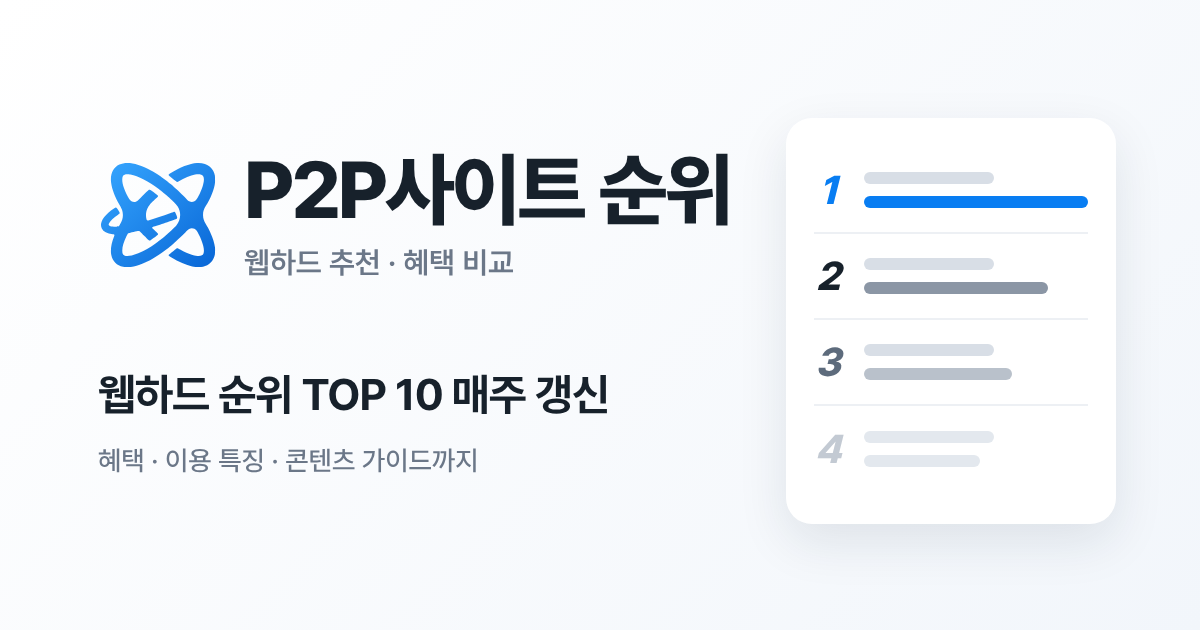
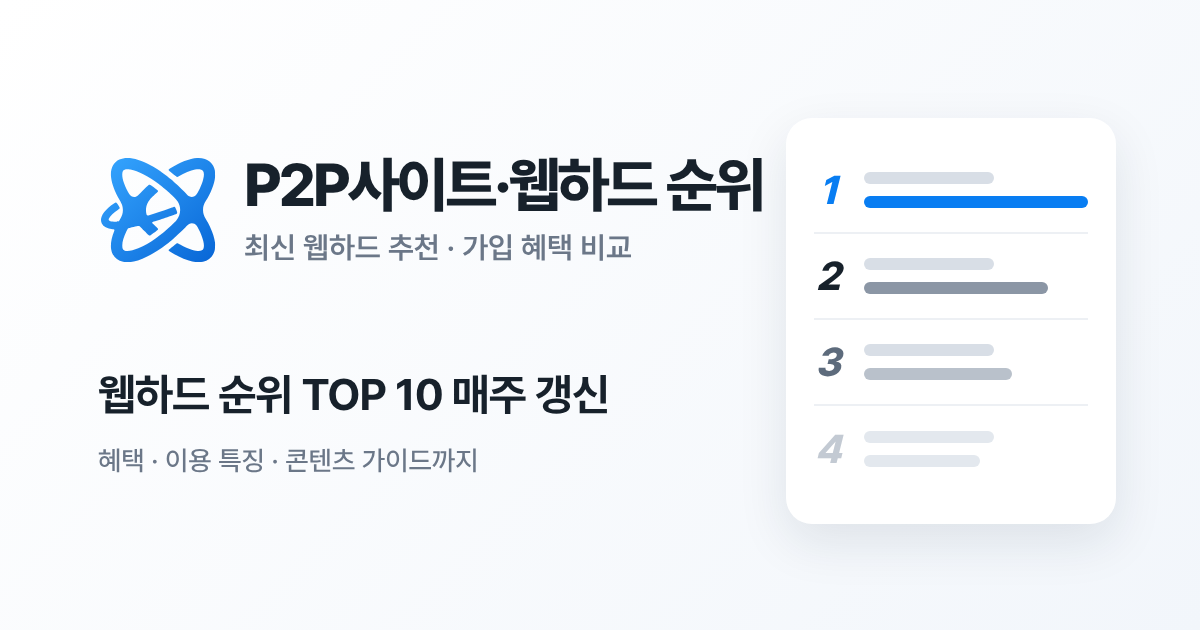
화면 이름에 웹하드 순위 검색어 추가
- 머리글·페이지 제목 끝·사이트 이름 정보·llms.txt·공유 이미지를 "P2P사이트·웹하드 순위 / 최신 웹하드 추천 · 가입 혜택 비교"로

Changed region(s): [[0.0617, 0.2413, 0.6475, 0.4524]]

diff --git a/criteria.html b/criteria.html
@@ -5,7 +5,7 @@
     <meta name="viewport" content="width=device-width,initial-scale=1" />
     <meta http-equiv="Content-Security-Policy" content="default-src 'self'; script-src 'self' 'unsafe-inline'; style-src 'self' 'unsafe-inline'; img-src 'self' data:; font-src 'self'; connect-src 'self'; object-src 'none'; base-uri 'self'; form-action 'none'" />
     <meta name="referrer" content="strict-origin-when-cross-origin" />
-    <title>순위 검증 가이드 | P2P사이트 순위</title>
+    <title>순위 검증 가이드 | P2P사이트·웹하드 순위</title>
     <link rel="icon" href="favicon.ico?v=2" sizes="32x32" />
     <link rel="icon" href="assets/brand-mark.svg?v=3" type="image/svg+xml" />
     <link rel="apple-touch-icon" href="assets/apple-touch-icon.png?v=2" />
@@ -14,18 +14,18 @@
       content="P2P사이트·웹하드 순위를 정하는 종합 지수 산정 기준(네이버 검색 관심도·구글 플레이 앱 이용 지표·이용자 반응)과 합법 웹하드 확인 방법을 안내합니다."
     />
     <meta property="og:type" content="website" />
-    <meta property="og:site_name" content="P2P사이트 순위" />
+    <meta property="og:site_name" content="P2P사이트·웹하드 순위" />
     <meta property="og:locale" content="ko_KR" />
-    <meta property="og:title" content="순위 검증 가이드 | P2P사이트 순위" />
+    <meta property="og:title" content="순위 검증 가이드 | P2P사이트·웹하드 순위" />
     <meta property="og:description" content="P2P사이트·웹하드 순위를 정하는 종합 지수 산정 기준(네이버 검색 관심도·구글 플레이 앱 이용 지표·이용자 반응)과 합법 웹하드 확인 방법을 안내합니다." />
     <meta property="og:url" content="https://site-url.invalid/criteria.html" />
-    <meta property="og:image" content="https://site-url.invalid/assets/og-image.png?v=3" />
+    <meta property="og:image" content="https://site-url.invalid/assets/og-image.png?v=4" />
     <meta property="og:image:width" content="1200" />
     <meta property="og:image:height" content="630" />
     <meta property="og:image:alt" content="P2P사이트·웹하드 순위 TOP 10" />
     <meta name="twitter:card" content="summary_large_image" />
     <link rel="canonical" href="https://site-url.invalid/criteria.html" />
-    <script type="application/ld+json">{"@context": "https://schema.org", "@type": "BreadcrumbList", "itemListElement": [{"@type": "ListItem", "position": 1, "name": "P2P사이트 순위", "item": "https://site-url.invalid/"}, {"@type": "ListItem", "position": 2, "name": "순위 검증 가이드", "item": "https://site-url.invalid/criteria.html"}]}</script>
+    <script type="application/ld+json">{"@context": "https://schema.org", "@type": "BreadcrumbList", "itemListElement": [{"@type": "ListItem", "position": 1, "name": "P2P사이트·웹하드 순위", "item": "https://site-url.invalid/"}, {"@type": "ListItem", "position": 2, "name": "순위 검증 가이드", "item": "https://site-url.invalid/criteria.html"}]}</script>
     <link rel="stylesheet" href="assets/css/main.css?v=30" />
     <link rel="stylesheet" href="assets/css/page.css?v=13" />
   </head>
@@ -35,7 +35,7 @@
       <nav class="wrap nav">
         <a class="brand-link" href="index.html"
           ><img class="brand-mark" src="assets/brand-mark.svg" alt="" width="40" height="40" /><span class="brand-word"
-            ><b>P2P사이트 순위</b><small>웹하드 추천 · 혜택 비교</small></span
+            ><b>P2P사이트·웹하드 순위</b><small>최신 웹하드 추천 · 가입 혜택 비교</small></span
           ></a
         >
         <div class="menu">
@@ -65,7 +65,7 @@
         <div class="drawer-head">
           <span class="brand-link"
             ><img class="brand-mark" src="assets/brand-mark.svg" alt="" width="40" height="40" /><span class="brand-word"
-              ><b>P2P사이트 순위</b><small>웹하드 추천 · 혜택 비교</small></span
+              ><b>P2P사이트·웹하드 순위</b><small>최신 웹하드 추천 · 가입 혜택 비교</small></span
             ></span
           ><button
             id="closeMenu"

diff --git a/index.html b/index.html
@@ -16,17 +16,17 @@
     <meta name="robots" content="index,follow,max-image-preview:large" />
     <link rel="canonical" href="https://site-url.invalid/" />
     <meta property="og:type" content="website" />
-    <meta property="og:site_name" content="P2P사이트 순위" />
+    <meta property="og:site_name" content="P2P사이트·웹하드 순위" />
     <meta property="og:locale" content="ko_KR" />
     <meta property="og:title" content="P2P사이트 순위 TOP {{count}} ({{updated_ym}}) | 최신 웹하드 추천·혜택 비교" />
     <meta property="og:description" content="{{updated_ym}} 기준 P2P사이트·웹하드 순위 TOP {{count}}. {{top3}} 등 주요 웹하드의 선정이유와 혜택, 이용 특징, 합법 웹하드 확인법을 한눈에 비교합니다." />
     <meta property="og:url" content="https://site-url.invalid/" />
-    <meta property="og:image" content="https://site-url.invalid/assets/og-image.png?v=3" />
+    <meta property="og:image" content="https://site-url.invalid/assets/og-image.png?v=4" />
     <meta property="og:image:width" content="1200" />
     <meta property="og:image:height" content="630" />
     <meta property="og:image:alt" content="P2P사이트·웹하드 순위 TOP 10" />
     <meta name="twitter:card" content="summary_large_image" />
-    <script type="application/ld+json">{"@context": "https://schema.org", "@type": "WebSite", "name": "P2P사이트 순위", "url": "https://site-url.invalid/", "inLanguage": "ko-KR"}</script>
+    <script type="application/ld+json">{"@context": "https://schema.org", "@type": "WebSite", "name": "P2P사이트·웹하드 순위", "url": "https://site-url.invalid/", "inLanguage": "ko-KR"}</script>
     <script type="application/ld+json">{"@context": "https://schema.org", "@type": "FAQPage", "mainEntity": [{"@type": "Question", "name": "웹하드 순위는 어떤 기준으로 정하나요?", "acceptedAnswer": {"@type": "Answer", "text": "네이버 검색 관심도, 구글 플레이 앱 이용 지표, 이용자 반응을 종합한 종합 지수 순서입니다. 지표는 매주 월요일 다시 수집해 반영합니다."}}, {"@type": "Question", "name": "합법 웹하드인지 어떻게 확인하나요?", "acceptedAnswer": {"@type": "Answer", "text": "국내 웹하드는 부가통신사업자로 등록해야 운영할 수 있습니다. 서비스 하단에서 사업자 정보와 등록 번호, 저작권 필터링 안내를 확인하세요."}}, {"@type": "Question", "name": "가입 무료 포인트는 바로 쓸 수 있나요?", "acceptedAnswer": {"@type": "Answer", "text": "대부분 사용 기한과 사용 범위가 정해져 있습니다. 가입 전에 이벤트의 유효기간과 제한 조건을 확인하세요."}}, {"@type": "Question", "name": "정액제 자동 결제는 어떻게 해지하나요?", "acceptedAnswer": {"@type": "Answer", "text": "보통 마이페이지의 결제 관리에서 자동 연장을 끌 수 있습니다. 해지 방법과 환불 조건은 결제 전에 이용약관에서 확인하세요."}}]}</script>
     <!-- ranking:jsonld -->
     <link rel="stylesheet" href="assets/css/main.css?v=30" />
@@ -37,7 +37,7 @@
       <nav class="wrap nav">
         <a class="brand-link" href="index.html"
           ><img class="brand-mark" src="assets/brand-mark.svg" alt="" width="40" height="40" /><span class="brand-word"
-            ><b>P2P사이트 순위</b><small>웹하드 추천 · 혜택 비교</small></span
+            ><b>P2P사이트·웹하드 순위</b><small>최신 웹하드 추천 · 가입 혜택 비교</small></span
           ></a
         >
         <div class="menu">
@@ -67,7 +67,7 @@
         <div class="drawer-head">
           <span class="brand-link"
             ><img class="brand-mark" src="assets/brand-mark.svg" alt="" width="40" height="40" /><span class="brand-word"
-              ><b>P2P사이트 순위</b><small>웹하드 추천 · 혜택 비교</small></span
+              ><b>P2P사이트·웹하드 순위</b><small>최신 웹하드 추천 · 가입 혜택 비교</small></span
             ></span
           ><button
             id="closeMenu"

diff --git a/content-guide.html b/content-guide.html
@@ -14,18 +14,18 @@
       content="극장 관객 수와 TV 시청률로 지난주 가장 많이 본 영화·드라마·예능 TOP 5를 매주 정리하는 콘텐츠 가이드입니다."
     />
     <meta property="og:type" content="website" />
-    <meta property="og:site_name" content="P2P사이트 순위" />
+    <meta property="og:site_name" content="P2P사이트·웹하드 순위" />
     <meta property="og:locale" content="ko_KR" />
     <meta property="og:title" content="이번 주 영화·드라마·예능 순위 TOP 5 | 콘텐츠 가이드" />
     <meta property="og:description" content="극장 관객 수와 TV 시청률로 지난주 가장 많이 본 영화·드라마·예능 TOP 5를 매주 정리하는 콘텐츠 가이드입니다." />
     <meta property="og:url" content="https://site-url.invalid/content-guide.html" />
-    <meta property="og:image" content="https://site-url.invalid/assets/og-image.png?v=3" />
+    <meta property="og:image" content="https://site-url.invalid/assets/og-image.png?v=4" />
     <meta property="og:image:width" content="1200" />
     <meta property="og:image:height" content="630" />
     <meta property="og:image:alt" content="P2P사이트·웹하드 순위 TOP 10" />
     <meta name="twitter:card" content="summary_large_image" />
     <link rel="canonical" href="https://site-url.invalid/content-guide.html" />
-    <script type="application/ld+json">{"@context": "https://schema.org", "@type": "BreadcrumbList", "itemListElement": [{"@type": "ListItem", "position": 1, "name": "P2P사이트 순위", "item": "https://site-url.invalid/"}, {"@type": "ListItem", "position": 2, "name": "콘텐츠 가이드", "item": "https://site-url.invalid/content-guide.html"}]}</script>
+    <script type="application/ld+json">{"@context": "https://schema.org", "@type": "BreadcrumbList", "itemListElement": [{"@type": "ListItem", "position": 1, "name": "P2P사이트·웹하드 순위", "item": "https://site-url.invalid/"}, {"@type": "ListItem", "position": 2, "name": "콘텐츠 가이드", "item": "https://site-url.invalid/content-guide.html"}]}</script>
     <link rel="stylesheet" href="assets/css/main.css?v=30" />
     <link rel="stylesheet" href="assets/css/page.css?v=13" />
   </head>
@@ -35,7 +35,7 @@
       <nav class="wrap nav">
         <a class="brand-link" href="index.html"
           ><img class="brand-mark" src="assets/brand-mark.svg" alt="" width="40" height="40" /><span class="brand-word"
-            ><b>P2P사이트 순위</b><small>웹하드 추천 · 혜택 비교</small></span
+            ><b>P2P사이트·웹하드 순위</b><small>최신 웹하드 추천 · 가입 혜택 비교</small></span
           ></a
         >
         <div class="menu">
@@ -65,7 +65,7 @@
         <div class="drawer-head">
           <span class="brand-link"
             ><img class="brand-mark" src="assets/brand-mark.svg" alt="" width="40" height="40" /><span class="brand-word"
-              ><b>P2P사이트 순위</b><small>웹하드 추천 · 혜택 비교</small></span
+              ><b>P2P사이트·웹하드 순위</b><small>최신 웹하드 추천 · 가입 혜택 비교</small></span
             ></span
           ><button
             id="closeMenu"

diff --git a/.github/templates/webhard.html b/.github/templates/webhard.html
@@ -5,7 +5,7 @@
     <meta name="viewport" content="width=device-width,initial-scale=1" />
     <meta http-equiv="Content-Security-Policy" content="default-src 'self'; script-src 'self' 'unsafe-inline'; style-src 'self' 'unsafe-inline'; img-src 'self' data:; font-src 'self'; connect-src 'self'; object-src 'none'; base-uri 'self'; form-action 'none'" />
     <meta name="referrer" content="strict-origin-when-cross-origin" />
-    <title>{{name}} 순위·가입 혜택·이벤트 ({{updated_ym}}) | P2P사이트 순위</title>
+    <title>{{name}} 순위·가입 혜택·이벤트 ({{updated_ym}}) | P2P사이트·웹하드 순위</title>
     <link rel="icon" href="{{root}}favicon.ico?v=2" sizes="32x32" />
     <link rel="icon" href="{{root}}assets/brand-mark.svg?v=3" type="image/svg+xml" />
     <link rel="apple-touch-icon" href="{{root}}assets/apple-touch-icon.png?v=2" />
@@ -13,12 +13,12 @@
     <meta name="robots" content="index,follow,max-image-preview:large" />
     <link rel="canonical" href="https://site-url.invalid/webhard/{{id}}/" />
     <meta property="og:type" content="website" />
-    <meta property="og:site_name" content="P2P사이트 순위" />
+    <meta property="og:site_name" content="P2P사이트·웹하드 순위" />
     <meta property="og:locale" content="ko_KR" />
-    <meta property="og:title" content="{{name}} 순위·가입 혜택·이벤트 | P2P사이트 순위" />
+    <meta property="og:title" content="{{name}} 순위·가입 혜택·이벤트 | P2P사이트·웹하드 순위" />
     <meta property="og:description" content="{{description}}" />
     <meta property="og:url" content="https://site-url.invalid/webhard/{{id}}/" />
-    <meta property="og:image" content="https://site-url.invalid/assets/og-image.png?v=3" />
+    <meta property="og:image" content="https://site-url.invalid/assets/og-image.png?v=4" />
     <meta property="og:image:width" content="1200" />
     <meta property="og:image:height" content="630" />
     <meta name="twitter:card" content="summary_large_image" />
@@ -32,7 +32,7 @@
       <nav class="wrap nav">
         <a class="brand-link" href="{{root}}index.html"
           ><img class="brand-mark" src="{{root}}assets/brand-mark.svg" alt="" width="40" height="40" /><span class="brand-word"
-            ><b>P2P사이트 순위</b><small>웹하드 추천 · 혜택 비교</small></span
+            ><b>P2P사이트·웹하드 순위</b><small>최신 웹하드 추천 · 가입 혜택 비교</small></span
           ></a
         >
         <div class="menu">
@@ -62,7 +62,7 @@
         <div class="drawer-head">
           <span class="brand-link"
             ><img class="brand-mark" src="{{root}}assets/brand-mark.svg" alt="" width="40" height="40" /><span class="brand-word"
-              ><b>P2P사이트 순위</b><small>웹하드 추천 · 혜택 비교</small></span
+              ><b>P2P사이트·웹하드 순위</b><small>최신 웹하드 추천 · 가입 혜택 비교</small></span
             ></span
           ><button
             id="closeMenu"

diff --git a/404.html b/404.html
@@ -6,7 +6,7 @@
     <meta http-equiv="Content-Security-Policy" content="default-src 'self'; script-src 'self' 'unsafe-inline'; style-src 'self' 'unsafe-inline'; img-src 'self' data:; font-src 'self'; connect-src 'self'; object-src 'none'; base-uri 'self'; form-action 'none'" />
     <meta name="referrer" content="strict-origin-when-cross-origin" />
     <meta name="robots" content="noindex" />
-    <title>페이지를 찾을 수 없어요 | P2P사이트 순위</title>
+    <title>페이지를 찾을 수 없어요 | P2P사이트·웹하드 순위</title>
     <link rel="icon" href="https://site-url.invalid/favicon.ico?v=2" sizes="32x32" />
     <link rel="stylesheet" href="https://site-url.invalid/assets/css/main.css?v=30" />
     <style>
@@ -21,7 +21,7 @@
       <nav class="wrap nav">
         <a class="brand-link" href="https://site-url.invalid/"
           ><img class="brand-mark" src="https://site-url.invalid/assets/brand-mark.svg" alt="" width="40" height="40" /><span class="brand-word"
-            ><b>P2P사이트 순위</b><small>웹하드 추천 · 혜택 비교</small></span
+            ><b>P2P사이트·웹하드 순위</b><small>최신 웹하드 추천 · 가입 혜택 비교</small></span
           ></a
         >
       </nav>

diff --git a/.github/scripts/render_ranking.py b/.github/scripts/render_ranking.py
@@ -132,7 +132,7 @@ page = {
     "url": "https://site-url.invalid/",
     "inLanguage": "ko-KR",
     "dateModified": updated.isoformat(),
-    "isPartOf": {"@type": "WebSite", "name": "P2P사이트 순위", "url": "https://site-url.invalid/"},
+    "isPartOf": {"@type": "WebSite", "name": "P2P사이트·웹하드 순위", "url": "https://site-url.invalid/"},
 }
 # "</" is escaped so text from the data can never close the script tag early
 jsonld = "".join(
@@ -249,7 +249,7 @@ for i, s in enumerate(ranked):
     others = random.Random(f"{week_start.isoformat()}-{s['id']}").sample(pool, min(5, len(pool)))
     page_ld = [
         {"@context": "https://schema.org", "@type": "BreadcrumbList", "itemListElement": [
-            {"@type": "ListItem", "position": 1, "name": "P2P사이트 순위", "item": "https://site-url.invalid/"},
+            {"@type": "ListItem", "position": 1, "name": "P2P사이트·웹하드 순위", "item": "https://site-url.invalid/"},
             {"@type": "ListItem", "position": 2, "name": s["name"], "item": f"https://site-url.invalid/webhard/{s['id']}/"}]},
         {"@context": "https://schema.org", "@type": "WebPage", "name": f"{s['name']} 순위·가입 혜택 정보",
          "url": f"https://site-url.invalid/webhard/{s['id']}/", "inLanguage": "ko-KR", "dateModified": updated.isoformat()},
@@ -300,7 +300,7 @@ GO = """<!doctype html>
     <meta name="viewport" content="width=device-width,initial-scale=1" />
     <meta name="robots" content="noindex,nofollow" />
     <meta http-equiv="Content-Security-Policy" content="default-src 'none'; script-src 'unsafe-inline'; base-uri 'none'; form-action 'none'" />
-    <title>{name}(으)로 이동 중 | P2P사이트 순위</title>
+    <title>{name}(으)로 이동 중 | P2P사이트·웹하드 순위</title>
   </head>
   <body>
     <p>{name} 공식 사이트로 이동 중입니다.</p>

diff --git a/CLAUDE.md b/CLAUDE.md
@@ -67,7 +67,7 @@
 
 ## 이 저장소
 
-- 화면 이름은 검색어형 문구 "P2P사이트 순위"(작은 글자 "웹하드 추천 · 혜택 비교")다. 머리글·페이지 제목 끝·`og:site_name`·구조화 데이터 사이트 이름·`llms.txt`·공유 이미지에 이 문구를 쓴다. 홈 제목은 "P2P사이트 순위 TOP n (연·월) | 최신 웹하드 추천·혜택 비교"로("실시간"은 매주 갱신과 맞지 않아 쓰지 않는다, 소유자 결정 2026-11), 연·월은 배포 때 채운다. 브랜드 "랭두"는 도메인과 바닥글(© 랭두)에만 쓴다(소유자 결정 2026-11). 순위 지수 이름은 "종합 지수"다. 로고 심볼은 `assets/brand-mark.svg`, 공유 이미지는 `assets/og-image.png`(1200×630, sharp로 저장)다.
+- 화면 이름은 검색어형 문구 "P2P사이트·웹하드 순위"(작은 글자 "최신 웹하드 추천 · 가입 혜택 비교")다. 머리글·페이지 제목 끝·`og:site_name`·구조화 데이터 사이트 이름·`llms.txt`·공유 이미지에 이 문구를 쓴다. 홈 제목은 "P2P사이트 순위 TOP n (연·월) | 최신 웹하드 추천·혜택 비교"로("실시간"은 매주 갱신과 맞지 않아 쓰지 않는다, 소유자 결정 2026-11), 연·월은 배포 때 채운다. 브랜드 "랭두"는 도메인과 바닥글(© 랭두)에만 쓴다(소유자 결정 2026-11). 순위 지수 이름은 "종합 지수"다. 로고 심볼은 `assets/brand-mark.svg`, 공유 이미지는 `assets/og-image.png`(1200×630, sharp로 저장)다.
 - 빌드 도구 없는 정적 HTML 사이트다. 호스팅은 GitHub Pages로 유지한다(2026-10 소유자 결정, Cloudflare로 옮기지 않음). 업체 주소는 `data/webhards.json`의 `url`에만 있고, `go/<id>/` 이동 페이지는 배포 때 `render_ranking.py`가 주소를 base64로 바꿔 뒤집은 값으로 만든다(저장소에는 없다). 그래서 사이트 소스·개발자 도구에는 주소가 그대로 보이지 않는다. 다만 이것은 가림이지 보안이 아니라 풀면 읽히고, 공개 저장소의 `url`과 이동할 때의 네트워크 기록에는 보인다. 제휴 주소를 넣기 전에 소유자에게 이 점을 알린다. 사이트 HTML(구조화 데이터 포함)에는 업체 주소를 넣지 않고, 필요하면 상세 페이지 주소를 쓴다. 스타일은 `assets/css/main.css`(모든 페이지 공통, 홈 컴포넌트)와 `page.css`(가이드 페이지 추가분)에 둔다. 가이드 페이지는 홈의 헤더·모바일 메뉴·intro·side-box·live-row·footer를 그대로 쓰고, 모바일 메뉴 스크립트는 `assets/js/menu.js`에 있다. 새 페이지도 이 컴포넌트로 만든다. 박스 여백·모서리·간격·본문색·보조색은 `main.css`의 `:root` 변수(`--box-pad`·`--box-radius`·`--gap`·`--text`·`--muted`)로 맞추고, 페이지마다 따로 숫자를 쓰지 않는다. CSS를 고치면 HTML의 `?v=` 숫자를 올려 브라우저가 새로 받게 한다. (`404.html`과 `.github/templates/webhard.html` 포함)
 - 모든 페이지 `<head>`에 보안 정책 태그(Content-Security-Policy: 이 사이트의 스크립트·스타일·이미지만 허용, 외부 스크립트·폼 전송·object 금지)와 referrer 태그를 둔다. 새 페이지도 같은 태그를 넣는다. 외부 스크립트·글꼴·분석 도구를 넣으려면 이 정책을 함께 바꿔야 하고, 넣기 전에 소유자에게 묻는다. 이동 페이지(`go/<id>/`)는 더 좁은 정책(인라인 이동 스크립트만)을 쓴다. 메뉴 버튼의 `onclick`과 인라인 스크립트 때문에 `'unsafe-inline'`은 남겨 둔다.
 - `404.html`은 GitHub Pages가 없는 주소에 보여주는 페이지다. 어느 경로에서 열려도 깨지지 않게 링크·CSS를 `https://site-url.invalid/…` 절대 주소로 쓰고(배포 때 바뀜), `noindex`라 sitemap에 넣지 않는다.
